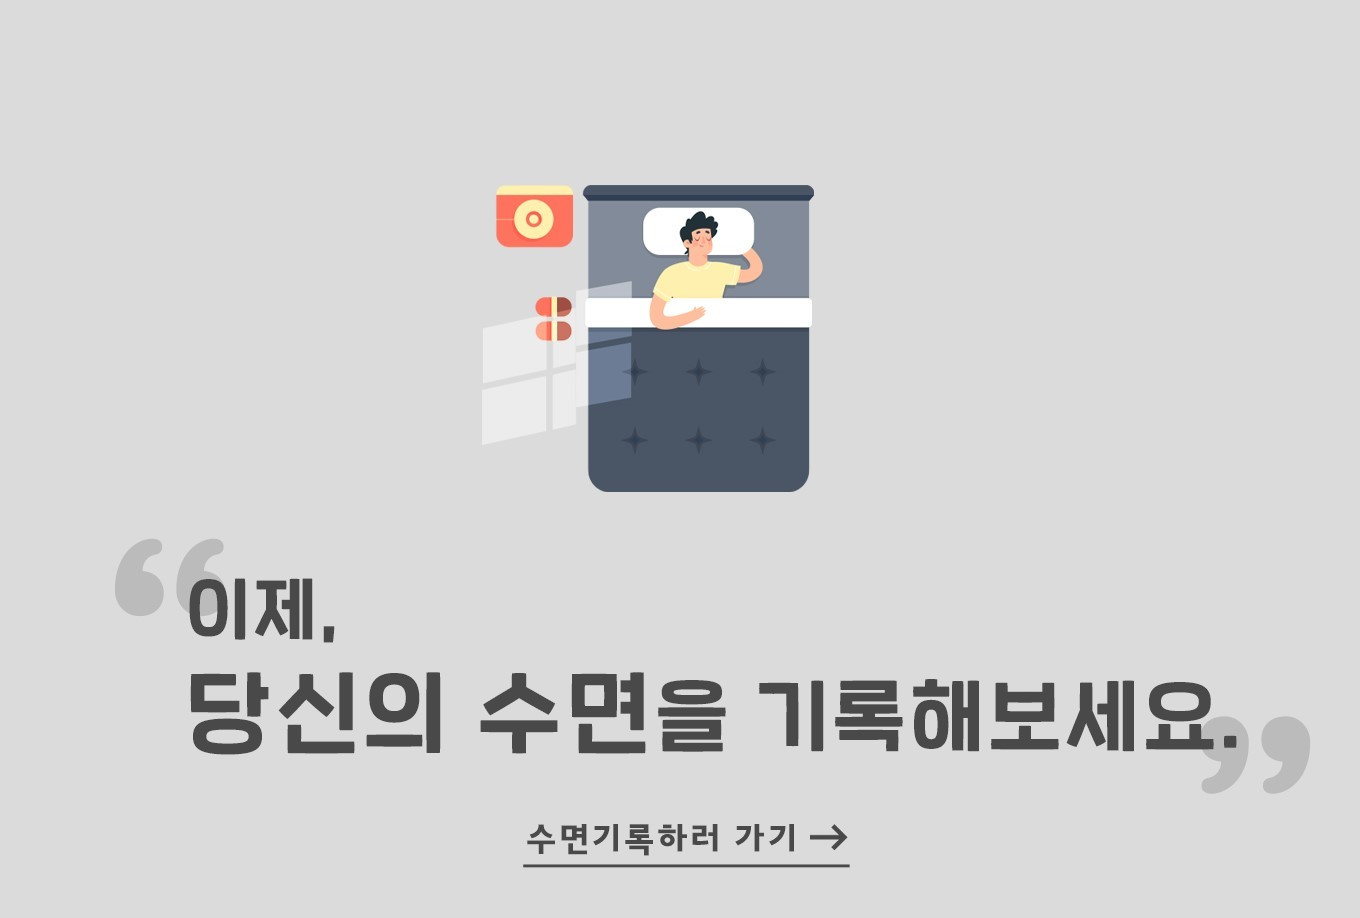
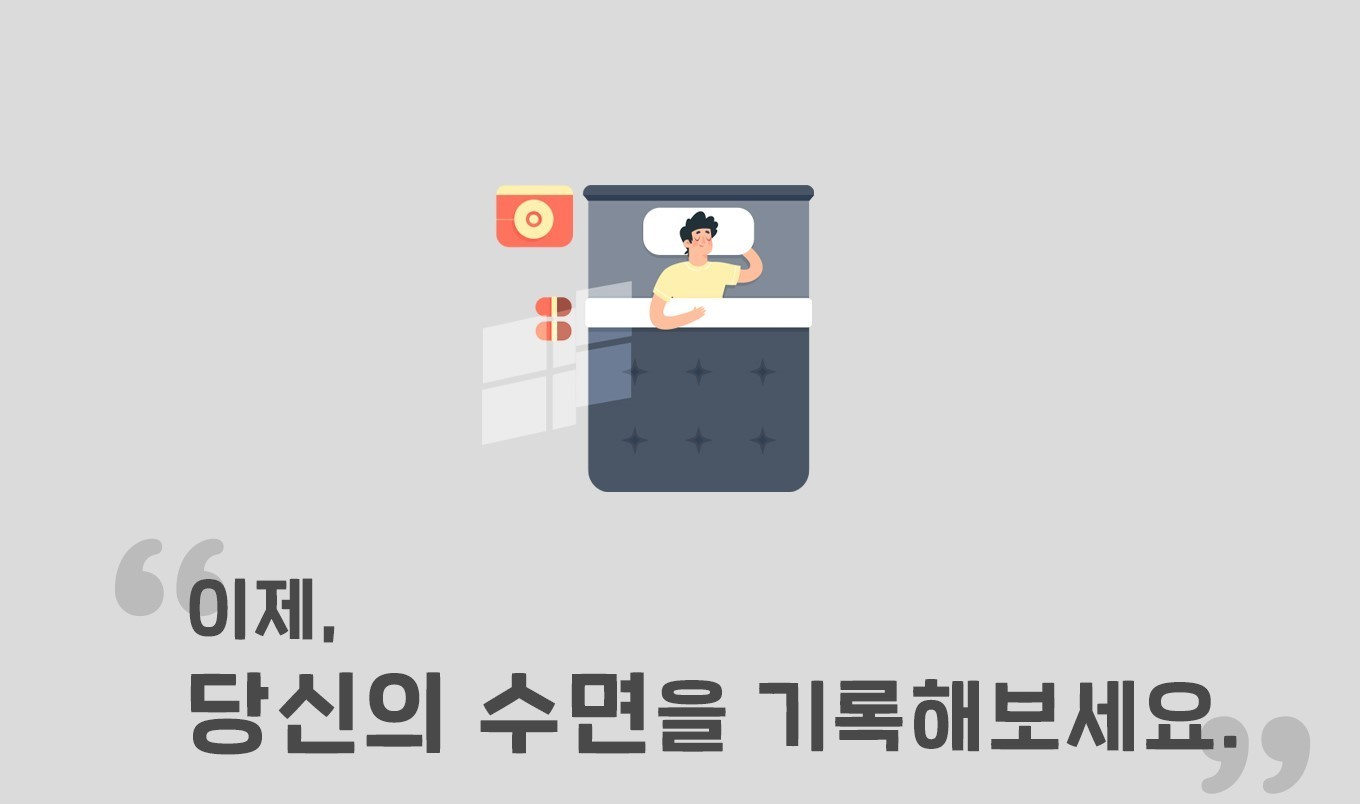
인트로페이지 제작(90%)

Changed region(s): [[0.0618, 0.5908, 0.9882, 0.995], [0.3397, 0.1866, 0.6176, 0.6219]]

diff --git a/src/components/IntroHeader.js b/src/components/IntroHeader.js
@@ -1,0 +1,187 @@
+import React from "react";
+import styled from "styled-components";
+import { history } from "../redux/configureStore";
+import "./Font.css";
+import Logo from "../images/Logo.png";
+
+const IntroHeader = () => {
+  return (
+    <React.Fragment>
+      <Wrap>
+        <FstContainer>
+          <LogoImg src={Logo} className="Logo" id="logo" />
+        </FstContainer>
+        <CategoryContainer></CategoryContainer>
+        <LogInBox
+          className="TimeText"
+          onClick={() => {
+            history.replace("/login");
+          }}
+        >
+          <span>로그인</span>
+        </LogInBox>
+        <SignUpBox
+          className="TimeText"
+          onClick={() => {
+            history.replace("/signup");
+          }}
+        >
+          <span>회원가입</span>
+        </SignUpBox>
+      </Wrap>
+    </React.Fragment>
+  );
+};
+
+const FstContainer = styled.div`
+  display: flex;
+  width: 15%;
+  height: 7vh;
+  justify-content: center;
+  align-items: center;
+`;
+
+const Wrap = styled.div`
+  display: flex;
+  flex-direction: row;
+  justify-content: center;
+  background-color: rgba(219, 219, 219, 1);
+  width: 100vw;
+  height: 7vh;
+  align-items: center;
+  border-bottom: 0.8px solid #bebcbc;
+  position: sticky;
+  box-sizing: border-box;
+  top: 0%;
+  z-index: 9999;
+  border: none;
+`;
+
+const LogoImg = styled.img`
+  width: 80%;
+  height: 7vh;
+  display: flex;
+  margin: 0px;
+  cursor: pointer;
+  outline: none;
+  border: none;
+`;
+
+const LogInBox = styled.div`
+  width: 10%;
+  display: flex;
+  font-size: 1.3rem;
+  justify-content: flex-end;
+  cursor: pointer;
+  color: black;
+  & > span {
+    background-color: #4a5666;
+    padding: 0.7rem;
+    border-radius: 8px;
+    color: white;
+    box-shadow: rgb(0 0 0 /35%) 0px 3px 5px 0px;
+    :hover {
+      background-color: white;
+      color: #4a5666;
+      transition: ease 0.3s;
+    }
+  }
+
+  @media (max-width: 768px) {
+    font-size: 1rem;
+    & > span {
+      padding: 0.6rem;
+    }
+  }
+
+  @media (max-width: 540px) {
+    font-size: 0.9rem;
+    & > span {
+      padding: 0.4rem;
+    }
+  }
+
+  @media (max-width: 414px) {
+    font-size: 0.7rem;
+    & > span {
+      padding: 0.3rem;
+    }
+  }
+  @media (max-width: 360px) {
+    font-size: 0.6rem;
+    & > span {
+      padding: 0.2rem;
+    }
+  }
+
+  @media (max-width: 320px) {
+    font-size: 0.5rem;
+    & > span {
+      padding: 0.2rem;
+    }
+  }
+`;
+
+const SignUpBox = styled.div`
+  width: 15%;
+  display: flex;
+  font-size: 1.3rem;
+  justify-content: center;
+  cursor: pointer;
+  color: black;
+  & > span {
+    background-color: #4a5666;
+    padding: 0.7rem;
+    border-radius: 8px;
+    color: white;
+    box-shadow: rgb(0 0 0 /35%) 0px 3px 5px 0px;
+    :hover {
+      background-color: white;
+      color: #4a5666;
+      transition: ease 0.3s;
+    }
+  }
+
+  @media (max-width: 768px) {
+    font-size: 1rem;
+    & > span {
+      padding: 0.6rem;
+    }
+  }
+
+  @media (max-width: 540px) {
+    font-size: 0.9rem;
+    & > span {
+      padding: 0.4rem;
+    }
+  }
+
+  @media (max-width: 414px) {
+    font-size: 0.7rem;
+    & > span {
+      padding: 0.3rem;
+    }
+  }
+  @media (max-width: 360px) {
+    font-size: 0.6rem;
+    & > span {
+      padding: 0.2rem;
+    }
+  }
+
+  @media (max-width: 320px) {
+    font-size: 0.5rem;
+    & > span {
+      padding: 0.2rem;
+    }
+  }
+`;
+
+const CategoryContainer = styled.div`
+  display: flex;
+  width: 70%;
+  justify-content: space-around;
+  font-weight: 600;
+`;
+
+export default IntroHeader;

diff --git a/src/pages/Intro.js b/src/pages/Intro.js
@@ -2,7 +2,6 @@ import React from "react";
 import Cube from "../components/Cube";
 import styled, { keyframes } from "styled-components";
 import { history } from "../redux/configureStore";
-import IntroImg from "../images/Intro.jpg";
 import IntroA from "../images/Intro_A.jpg";
 import IntroB from "../images/Intro_B.jpg";
 import IntroC from "../images/Intro_C.jpg";
@@ -10,51 +9,101 @@ import IntroD from "../images/Intro_D.jpg";
 import IntroE from "../images/Intro_E.jpg";
 import IntroF from "../images/Intro_F.jpg";
 import IntroG from "../images/Intro_G.jpg";
+import IntroH from "../images/Intro_H.jpg";
+import IntroHeader from "../components/IntroHeader";
+import "../components/Font.css";
 
 const Intro = () => {
   return (
     <React.Fragment>
       <Wrap>
+        <IntroHeader />
         <Backgroud bg={"#DBDBDB"}>
           <BackImg src={IntroA} />
         </Backgroud>
-
-        <BackImg src={IntroB} />
-        <BackImg src={IntroC} />
-        <BackImg src={IntroD} />
-        <BackImg src={IntroE} />
-        <BackImg src={IntroF} />
-        <BackImg src={IntroG} />
-        <CubeButton
+        <Backgroud bg={"white"}>
+          <BackImg src={IntroB} />
+        </Backgroud>
+        <Backgroud bg={"#4A5666"}>
+          <BackImg src={IntroC} />
+        </Backgroud>
+        <Backgroud bg={"#DBDBDB"}>
+          <BackImg src={IntroD} />
+        </Backgroud>
+        <Backgroud bg={"#4A5666"}>
+          <BackImg src={IntroE} />
+        </Backgroud>
+        <Backgroud bg={"#4A5666"}>
+          <BackImg src={IntroF} />
+        </Backgroud>
+        <Backgroud bg={"#DBDBDB"}>
+          <BackImg src={IntroG}></BackImg>
+          <GoBtn
+            className="TimeText"
+            onClick={() => {
+              history.replace("/login");
+            }}
+          >
+            수면기록하러 가기
+          </GoBtn>
+        </Backgroud>
+        <Backgroud bg={"#494949"}>
+          <BackImg src={IntroH} />
+        </Backgroud>
+        {/* <CubeButton
           onClick={() => {
             console.log("hi");
           }}
         >
           <Cube />
           <Text>로그인하러 가기</Text>
-        </CubeButton>
+        </CubeButton> */}
       </Wrap>
     </React.Fragment>
   );
 };
 
+const GoBtn = styled.div`
+  width: 50%;
+  height: 4rem;
+  display: flex;
+  justify-content: center;
+  align-items: flex-start;
+  font-size: 2rem;
+  /* background-color: green; */
+  cursor: pointer;
+  text-decoration: underline;
+  text-underline-position: under;
+  color: #494949;
+  font-weight: 800;
+  border: none;
+  :hover {
+    color: white;
+    transition: ease 0.3s;
+  }
+`;
+
 const Wrap = styled.div`
   display: flex;
   width: 100vw;
-  height: 700vh;
+  height: 550vh;
   flex-direction: column;
   align-items: center;
+  background-color: #dbdbdb;
 `;
 
 const Backgroud = styled.div`
   display: flex;
   justify-content: center;
+  flex-direction: column;
+  align-items: center;
   width: 100%;
   ${(props) => (props.bg ? `background-color: ${props.bg};` : "")}
 `;
 
 const BackImg = styled.img`
-  width: 80%;
+  width: 70%;
+  z-index: 1;
 `;
 
 const CubeButton = styled.div`

diff --git a/src/pages/Login.js b/src/pages/Login.js
@@ -77,7 +77,7 @@ const Login = (props) => {
                   />
                 </div>
                 <div style={{ height: "2rem" }}></div>
-                <InfoTitle>인증번호</InfoTitle>
+                <InfoTitle>비밀번호</InfoTitle>
                 <PwBox
                   className="TimeText"
                   onChange={(e) => {
@@ -242,7 +242,6 @@ const PwBox = styled.input`
   font-weight: bold;
   color: black;
   opacity: 0.7;
-  width: 100%;
   ::placeholder {
     font-size: 13px;
   }
